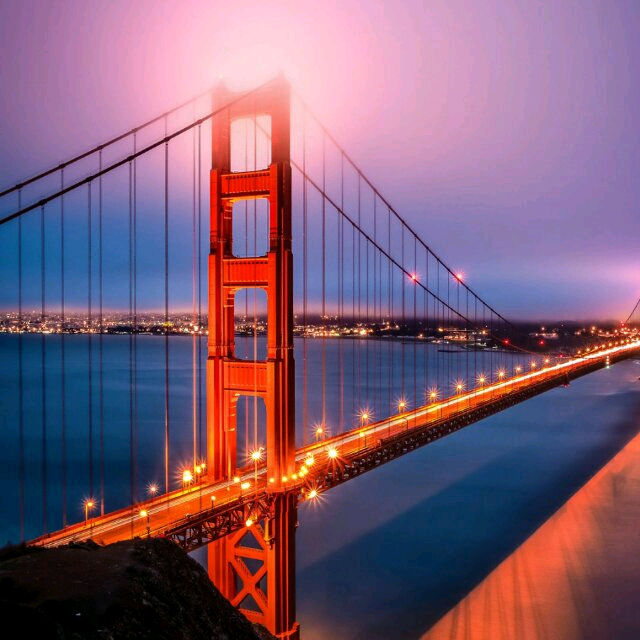
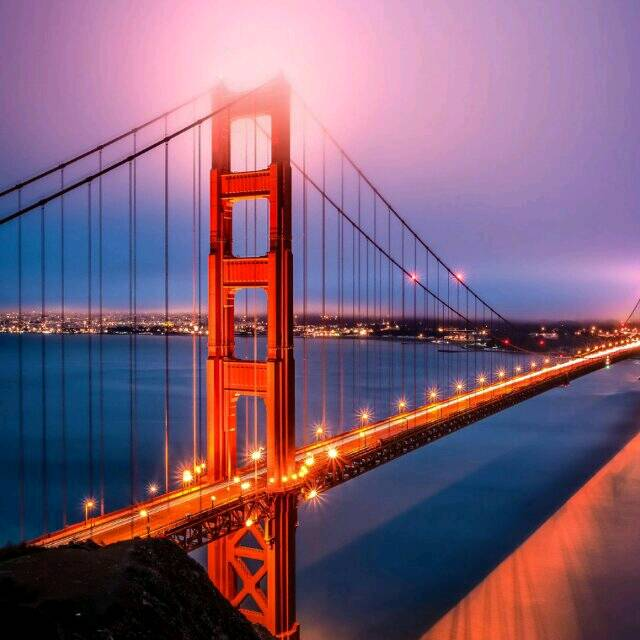
fix边框

diff --git a/source/outschool/assets/css/style.css b/source/outschool/assets/css/style.css
@@ -17,11 +17,12 @@ header {
 #time {
   position: fixed;
   z-index: 999;
-  top:11px;
-  left:15px;
+  top: 11px;
+  left: 15px;
   font-size: 15px;
   color: #fff;
 }
+
 .container {
   position: relative;
   height: 100vh;
@@ -70,13 +71,30 @@ header {
 }
 
 .title-wrapper .via {
+  position: relative;
   display: inline-block;
   color: var(--via-color);
   font-size: 12px;
-  border: 1px solid var(--via-border-color);
-  border-radius: 3px;
+  /* border: 1px solid var(--via-border-color); */
+  /* border-radius: 3px; */
   padding: 3px;
   margin-left: 8px;
+}
+
+.title-wrapper .via:after {
+  content: "  ";
+  position: absolute;
+  left: 0;
+  top: 0;
+  z-index: 99;
+  width: 200%;
+  height: 200%;
+  border: 1px solid var(--via-border-color);
+  -webkit-transform-origin: 0 0;
+  transform-origin: 0 0;
+  -webkit-transform: scale(.5, .5);
+  transform: scale(.5, .5);
+  border-radius: 3px;
 }
 
 .reply-desc {
@@ -119,18 +137,18 @@ header {
 }
 
 .reply-desc .reply-content .reply-item .map-wrapper .h2 {
-  font-size: 16px;
+  font-size: 15px;
   padding: 5px;
 }
 
 .reply-desc .reply-content .reply-item .map-wrapper .h4 {
-  font-size: 16px;
+  font-size: 14px;
   padding: 2px 5px;
   color: var(--font-color);
 }
 
 .reply-desc .reply-content .reply-item .map-wrapper .h5 {
-  font-size: 14px;
+  font-size: 13px;
   padding: 2px 5px;
   color: rgb(183, 183, 183, 0.6);
 }

diff --git a/source/outschool/assets/js/index.js b/source/outschool/assets/js/index.js
@@ -81,7 +81,7 @@ let vm = new Vue({
       this.visible = false
     },
     _formatTime() {
-      const prev = new Date(+new Date() + 3 * 2700 * 1000).toJSON().substr(0, 16).replace("T", " ").replace(/-0|-/g, '/')
+      const prev = new Date(+new Date() + 5 * 2700 * 1000).toJSON().substr(0, 16).replace("T", " ").replace(/-0|-/g, '/')
       const now = new Date(+new Date() + 8 * 3600 * 1000).toJSON().substr(0, 16).replace("T", " ")
       this.submitTime = prev
       this.approvalTime = now.substr(5, ).replace('-', '/')

diff --git a/source/outschool/index.html b/source/outschool/index.html
@@ -40,7 +40,7 @@
     <div class="container" v-show="visible">
       <div id="time">{{currentTime | fmt}}</div>
       <div class="img-header">
-        <img src="assets/imgs/header.jpg" alt="">
+        <img src="assets/imgs/header2.jpg" alt="">
       </div>
       <div class="main-content">
         <div class="title-wrapper-border">
